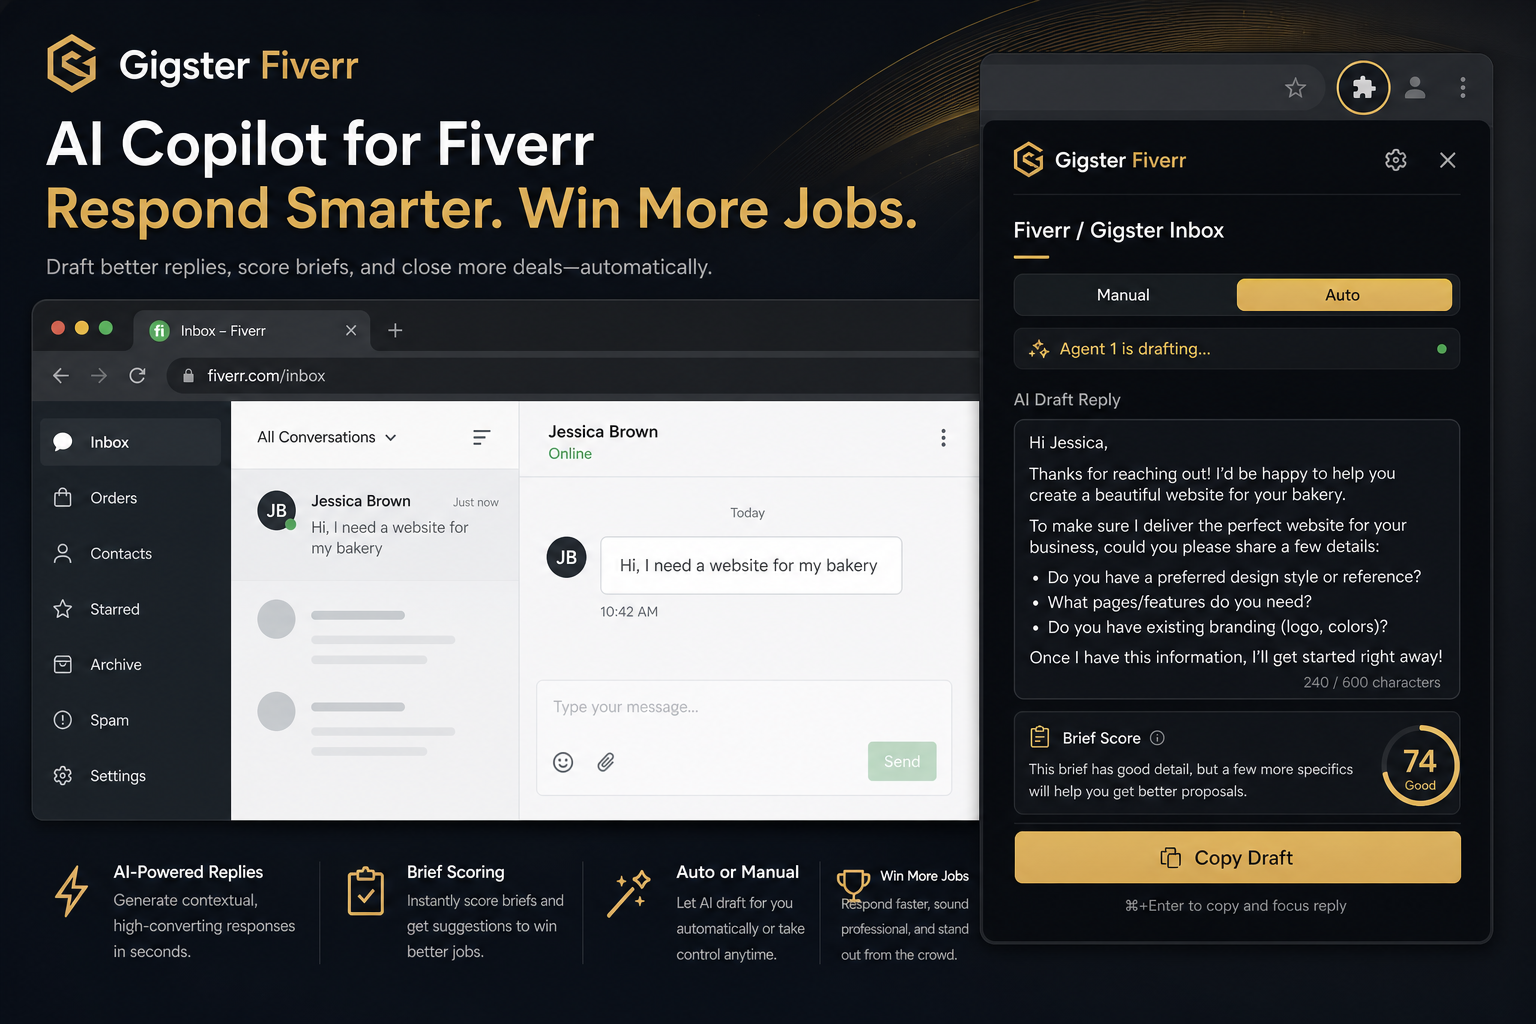
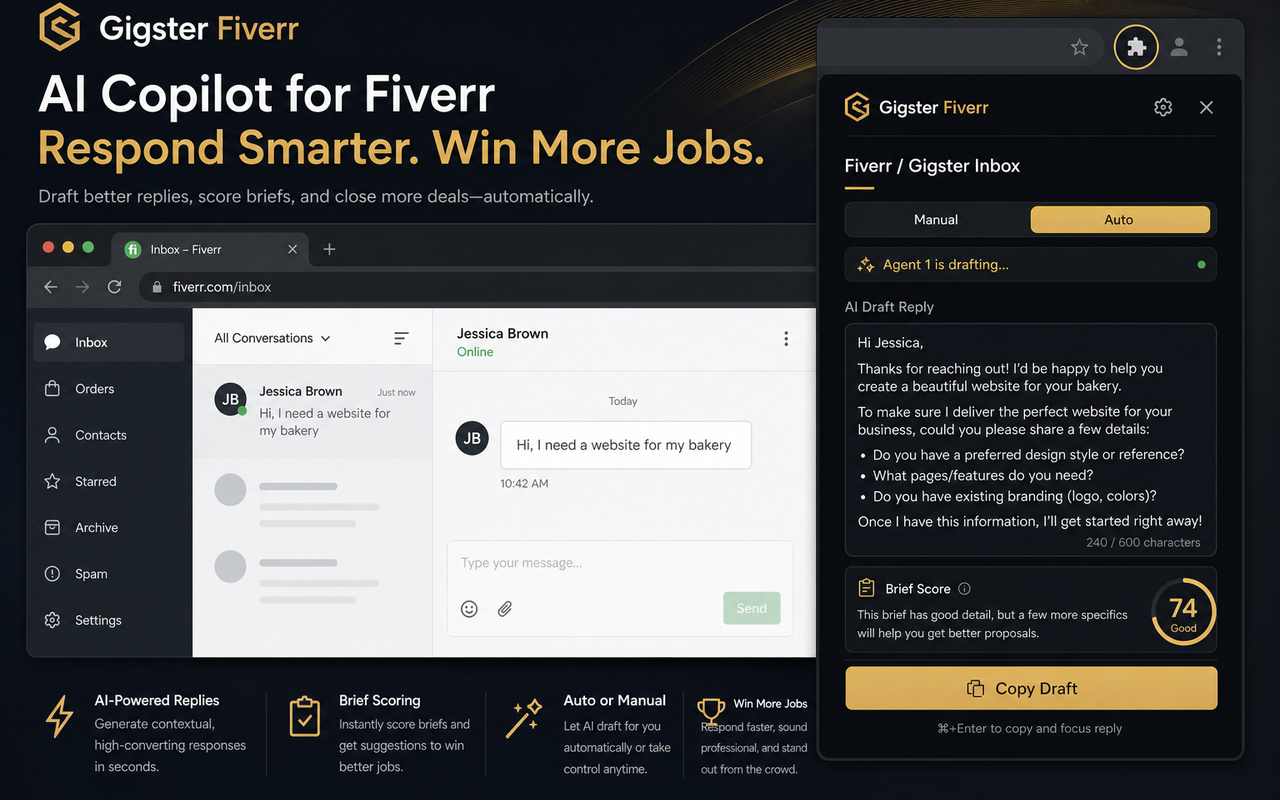
Fix Chrome Web Store screenshots to exact 1280x800 RGB.
Generated assets were 1536x1024; Web Store rejects non-standard dimensions.

diff --git a/scripts/resize-store-screenshots.py b/scripts/resize-store-screenshots.py
@@ -1,0 +1,42 @@
+#!/usr/bin/env python3
+"""Ensure Chrome Web Store screenshots are exactly 1280x800 RGB PNG."""
+from __future__ import annotations
+
+import sys
+from pathlib import Path
+
+try:
+    from PIL import Image
+except ImportError:
+    print("Install Pillow: pip install pillow", file=sys.stderr)
+    raise SystemExit(1)
+
+TARGET = (1280, 800)
+ROOT = Path(__file__).resolve().parents[1]
+
+
+def fix(path: Path) -> None:
+    img = Image.open(path).convert("RGB")
+    w, h = img.size
+    tw, th = TARGET
+    scale = max(tw / w, th / h)
+    nw, nh = int(w * scale), int(h * scale)
+    img = img.resize((nw, nh), Image.Resampling.LANCZOS)
+    left = (nw - tw) // 2
+    top = (nh - th) // 2
+    img = img.crop((left, top, left + tw, top + th))
+    img.save(path, "PNG")
+    out = Image.open(path)
+    print(f"OK {path} -> {out.size} {out.mode}")
+
+
+def main() -> None:
+    for rel in (
+        "apps/extension-fiverr/store-assets/screenshot-1280x800.png",
+        "apps/extension-freelancer/store-assets/screenshot-1280x800.png",
+    ):
+        fix(ROOT / rel)
+
+
+if __name__ == "__main__":
+    main()
